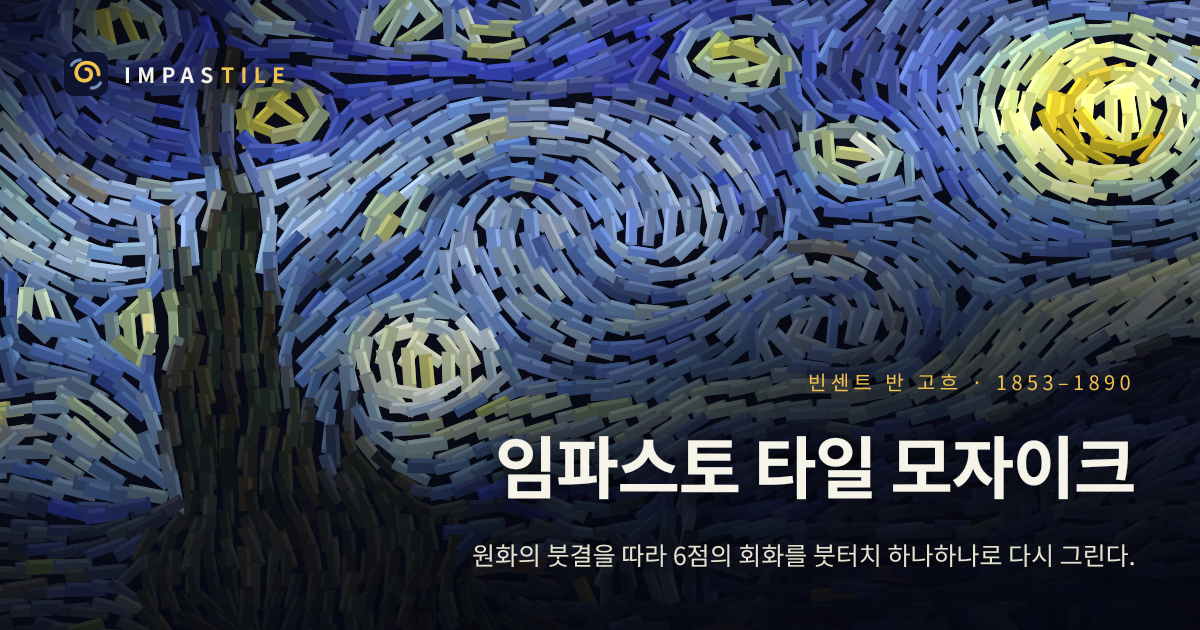
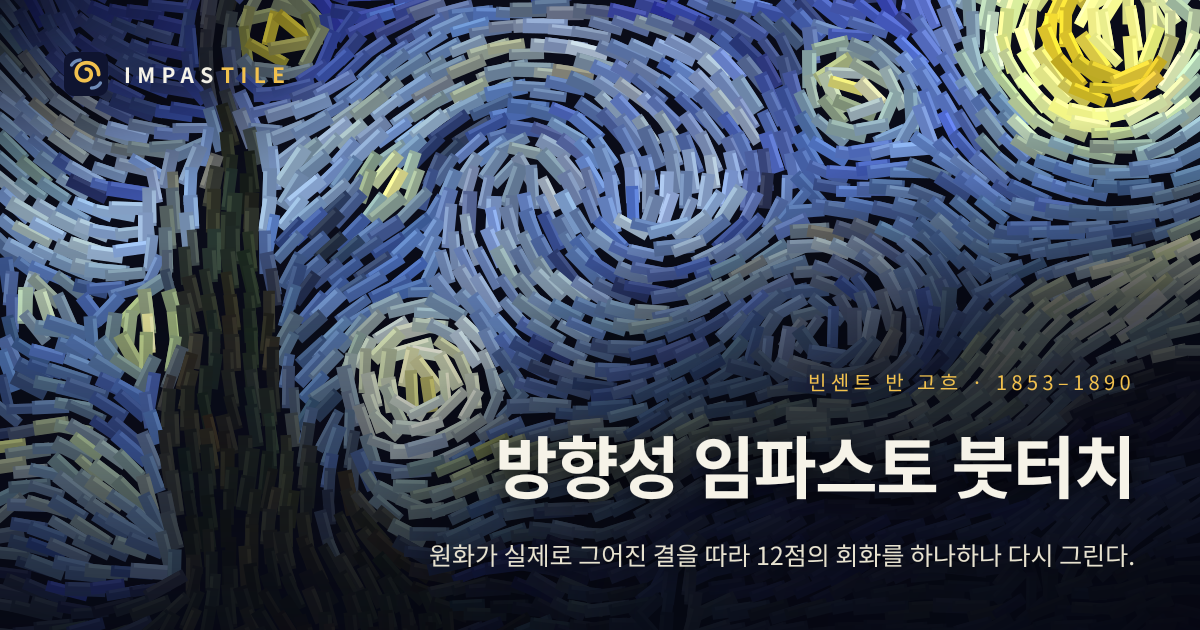
Impastile 설명을 지금의 저장소에 맞춰 다시 적음
어바웃 페이지(components/AboutDoc.tsx)와 README 를 다시 읽으니 화면의 설명이 옛날
저장소를 가리키고 있었다. 수록 작품은 6점이 아니라 12점이고(lib/scenes/index.ts 의
baseWorks), 이미지를 끌어다 놓으면 같은 엔진이 그 자리에서 붓결을 뽑아 갤러리 뒤에
붙이는 기능이 통째로 빠져 있었다. 파이썬 추출기의 브라우저 판(lib/scenes/extract.ts)이
탭 안에서 도는 것이라 파일이 서버로 나가지 않는다 — 이건 짚어둘 것에 넣었다.

story 에 "색은 지어내지 않는다" 를 한 문장 끼웠다. 어바웃이 모자이크와 갈리는 규칙
셋을 드는데 그 첫째가 이것이고, 색이 원화에서만 온다고 못박아야 "그래서 갈리는 것은
방향뿐" 이 서고, 그래야 배각(2θ) 이야기가 왜 이 프로젝트의 전부인지가 이어진다.

짚어둘 것에서 "외부 이미지 요청이 없다" 를 뺐다. 맨 아래 줄이 뽑아낸 것은 저해상도
색상 맵과 방향장뿐이라고 이미 말한다. 대신 한 점이 gzip 75KB 라 12점을 다 안고
시작하지 않는다는 것을 넣었다 — 6점일 때는 굳이 적을 일이 아니었다.

OG 카드도 같이 받아 덮었다. 카드에 "임파스토 타일 모자이크 · 6점" 이 박혀 있어, 바로
아래 본문이 모자이크가 아니라고 말하는 것과 패널 한 장 안에서 어긋났다. 원본 저장소의
opengraph-image 를 복사해 두는 생성물이라 개발 서버에서 다시 받았다(방향성 임파스토
붓터치 · 12점).

스택은 about.module.css 가 생겨 CSS Module 한 줄, 추출기가 둘이라 TS 판 한 줄을 더했다.
tech 태그는 그대로다 — 늘어난 것이 없다.

diff --git a/data/projects.ts b/data/projects.ts
@@ -360,12 +360,13 @@ export const PROJECTS: Project[] = [
     group: 'art',
     tagline: '원화가 그어진 방향으로 붓을 놓는다',
     blurb:
-      '반 고흐 회화 6점을 셀 격자로 나눠, 셀마다 원화의 붓결 방향으로 회전한 스트로크를 놓아 다시 그립니다. 소용돌이치는 밤하늘은 소용돌이 접선을, 사이프러스는 수직 불꽃결을 따라 흐릅니다.',
+      '반 고흐 회화 12점을 셀 격자로 나눠, 셀마다 원화의 붓결 방향으로 회전한 스트로크를 놓아 다시 그립니다. 소용돌이치는 밤하늘은 소용돌이 접선을, 사이프러스는 수직 불꽃결을 따라 흐릅니다. 내 이미지를 끌어다 놓으면 같은 붓이 그 자리에서 붓결을 뽑아 다시 그립니다.',
     story:
-      '모자이크는 색만 남기고 붓질을 버립니다. 그래서 색상 맵과 함께 붓결 방향장을 뽑았습니다 — 원화에 구조 텐서를 걸어 등고선 방향을 얻고, 그 각도로 회전한 길쭉한 사각형에 물감이 솟은 릿지를 얹습니다. 방향을 배각(2θ) 벡터로 저장한 것이 핵심입니다. 붓 스트로크는 180° 대칭이라 방향의 부호가 의미 없는데, 각도를 그대로 보간하면 0°와 179°가 90°로 섞여 스트로크가 뒤집힙니다.',
+      '모자이크는 색만 남기고 붓질을 버립니다. 그래서 색상 맵과 함께 붓결 방향장을 뽑았습니다 — 원화에 구조 텐서를 걸어 등고선 방향을 얻고, 그 각도로 회전한 길쭉한 사각형에 물감이 솟은 릿지를 얹습니다. 색은 지어내지 않고 원화에서만 오므로, 모자이크와 갈리는 것은 방향뿐입니다. 그 방향을 배각(2θ) 벡터로 저장한 것이 핵심입니다. 붓 스트로크는 180° 대칭이라 방향의 부호가 의미 없는데, 각도를 그대로 보간하면 0°와 179°가 90°로 섞여 스트로크가 뒤집힙니다.',
     notes: [
       '방향을 배각(2θ) 벡터로 저장한다. 각도를 그냥 섞으면 0°와 179°가 90°가 된다',
-      '번들에 든 원화 데이터는 최대 변 144px 색상 맵과 방향장뿐 — 외부 이미지 요청이 없다',
+      '올린 이미지는 서버로 나가지 않는다. 파이썬 추출기의 브라우저 판이 탭 안에서 붓결을 뽑는다',
+      '작품 한 점이 gzip 75KB 라 12점을 다 안고 시작하지 않는다 — 보는 것부터 받고 나머지가 뒤따른다',
       '시간을 프레임 수가 아니라 dt 로 센다. 탭이 가려져 rAF 가 늦어져도, 120Hz 에서도 속도가 같다',
       '공유 카드는 같은 렌더 규칙을 SVG 로 한 번 구운 것이다. 화면과 다른 그림이 나가지 않는다',
       '원화는 Wikimedia Commons 의 퍼블릭 도메인 스캔. 뽑아낸 것은 저해상도 색상 맵과 방향장이다',
@@ -375,9 +376,9 @@ export const PROJECTS: Project[] = [
     tech: ['Next.js', 'React', 'TypeScript', 'Canvas', 'Python'],
     stack: [
       { area: '프레임워크', items: ['Next.js 16 (App Router)', 'React 19', 'TypeScript'] },
-      { area: '스타일', items: ['전역 CSS 한 장'] },
+      { area: '스타일', items: ['전역 CSS 한 장', 'CSS Module (엔진 문서)'] },
       { area: '그리기', items: ['Canvas 2D', '구조 텐서 방향장', 'SVG (서버 렌더)'] },
-      { area: '데이터 추출', items: ['Python', 'Pillow', 'numpy'] },
+      { area: '데이터 추출', items: ['Python', 'Pillow', 'numpy', 'TS 판 (올린 이미지)'] },
       { area: '부가', items: ['next/og (공유 카드)', 'Noto Sans KR 서브셋'] },
     ],
     og: '/og/impastile.png',
